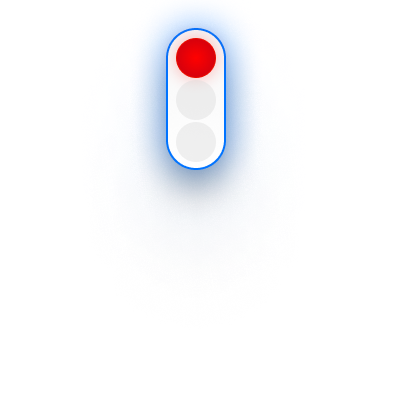
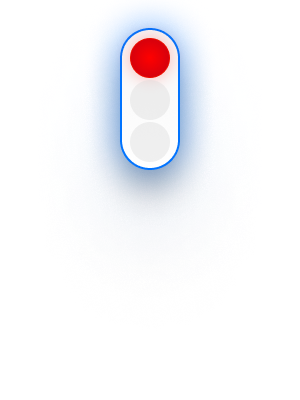
Fix traffic light clickable (#375)

Changed region(s): [[0.33, 0.06, 0.69, 0.45]]

diff --git a/lib/common/map/layers/sg_layers.dart b/lib/common/map/layers/sg_layers.dart
@@ -181,6 +181,112 @@ class TrafficLightsLayer {
   }
 }
 
+class TrafficLightsLayerClickable {
+  /// The ID of the Mapbox source.
+  static const sourceId = "traffic-lights-clickable";
+
+  /// The ID of the Mapbox layer.
+  static const layerId = "traffic-lights-icons-clickable";
+
+  /// The features to display.
+  final List<dynamic> features = List.empty(growable: true);
+
+  TrafficLightsLayerClickable(bool isDark, {hideBehindPosition = false}) {
+    final routing = getIt<Routing>();
+    final userPosSnap = getIt<Positioning>().snap;
+    if (routing.selectedRoute == null) return;
+    for (int i = 0; i < routing.selectedRoute!.signalGroups.length; i++) {
+      final sg = routing.selectedRoute!.signalGroups[i];
+      final sgDistanceOnRoute = routing.selectedRoute!.signalGroupsDistancesOnRoute[i];
+      // Clamp the value to not unnecessarily update the source.
+      final distanceToSgOnRoute = max(-5, min(0, sgDistanceOnRoute - (userPosSnap?.distanceOnRoute ?? 0)));
+
+      features.add(
+        {
+          "id": "traffic-light-clickable-$i", // Required for the click listener.
+          "type": "Feature",
+          "geometry": {
+            "type": "Point",
+            "coordinates": [sg.position.lon, sg.position.lat],
+          },
+          "properties": {
+            "id": sg.id,
+            "isDark": isDark,
+            "distanceToSgOnRoute": distanceToSgOnRoute,
+            "hideBehindPosition": hideBehindPosition,
+          },
+        },
+      );
+    }
+  }
+
+  /// Install the overlay on the map controller.
+  Future<void> install(mapbox.MapboxMap mapController, {iconSize = 1.0, at = 0}) async {
+    final sourceExists = await mapController.style.styleSourceExists(sourceId);
+    if (!sourceExists) {
+      await mapController.style.addSource(
+        mapbox.GeoJsonSource(id: sourceId, data: json.encode({"type": "FeatureCollection", "features": features})),
+      );
+    } else {
+      await update(mapController);
+    }
+
+    final trafficLightIconsLayerExists = await mapController.style.styleLayerExists(layerId);
+    if (!trafficLightIconsLayerExists) {
+      await mapController.style.addLayerAt(
+          mapbox.SymbolLayer(
+            sourceId: sourceId,
+            id: layerId,
+            iconSize: iconSize,
+            iconAllowOverlap: true,
+            textAllowOverlap: true,
+            textIgnorePlacement: true,
+            iconOpacity: 0,
+          ),
+          mapbox.LayerPosition(at: at));
+      await mapController.style.setStyleLayerProperty(layerId, 'icon-image', 'trafficlightclicklayer');
+      await mapController.style.setStyleLayerProperty(
+          layerId,
+          'icon-opacity',
+          json.encode(
+            showAfter(zoom: 16, opacity: [
+              "case",
+              ["get", "hideBehindPosition"],
+              [
+                "case",
+                [
+                  "<",
+                  ["get", "distanceToSgOnRoute"],
+                  -5, // See above - this is clamped to [-5, 0]
+                ],
+                0,
+                // Interpolate between -5 (opacity=0) and 0 (opacity=1) meters
+                [
+                  "interpolate",
+                  ["linear"],
+                  ["get", "distanceToSgOnRoute"],
+                  -5, // See above - this is clamped to [-5, 0]
+                  0,
+                  0,
+                  1
+                ],
+              ],
+              1
+            ]),
+          ));
+    }
+  }
+
+  /// Update the overlay on the map controller (without updating the layers).
+  update(mapbox.MapboxMap mapController) async {
+    final sourceExists = await mapController.style.styleSourceExists(sourceId);
+    if (sourceExists) {
+      final source = await mapController.style.getSource(sourceId);
+      (source as mapbox.GeoJsonSource).updateGeoJSON(json.encode({"type": "FeatureCollection", "features": features}));
+    }
+  }
+}
+
 class TrafficLightLayer {
   /// The ID of the Mapbox source.
   static const sourceId = "traffic-light";

diff --git a/lib/ride/views/map.dart b/lib/ride/views/map.dart
@@ -44,6 +44,9 @@ class RideMapViewState extends State<RideMapView> {
   /// The associated ride service, which is injected by the provider.
   late Ride ride;
 
+  /// The associated settings service, which is injected by the provider.
+  late Settings settings;
+
   /// The associated sg status service, which is injected by the provider.
   late PredictionSGStatus predictionSGStatus;
 
@@ -68,6 +71,7 @@ class RideMapViewState extends State<RideMapView> {
     userLocationLayerId,
     OfflineCrossingsLayer.layerId,
     TrafficLightsLayer.layerId,
+    TrafficLightsLayerClickable.layerId,
     TrafficLightsLayer.touchIndicatorsLayerId,
     TrafficLightLayer.layerId,
   ];
@@ -101,6 +105,7 @@ class RideMapViewState extends State<RideMapView> {
     positioning.addListener(onPositioningUpdate);
     predictionSGStatus = getIt<PredictionSGStatus>();
     predictionSGStatus.addListener(onStatusUpdate);
+    settings = getIt<Settings>();
   }
 
   @override
@@ -397,6 +402,13 @@ class RideMapViewState extends State<RideMapView> {
       iconSize: ppi / 5,
       at: index,
     );
+    index = await getIndex(TrafficLightsLayer.layerId);
+    if (!mounted) return;
+    await TrafficLightsLayerClickable(isDark).install(
+      mapController!,
+      iconSize: ppi / 5,
+      at: index,
+    );
     index = await getIndex(OfflineCrossingsLayer.layerId);
     if (!mounted) return;
     await OfflineCrossingsLayer(isDark, hideBehindPosition: false)
@@ -434,13 +446,35 @@ class RideMapViewState extends State<RideMapView> {
       ).toJson(),
     );
 
+    // Calculate the correct screen coordinates since the map got scaled.
+    if (settings.saveBatteryModeEnabled) {
+      if (!mounted) return;
+      final frame = MediaQuery.of(context);
+
+      // Get the scaled width and height.
+      double scaleWidth = frame.size.width / settings.scalingFactor;
+      double scaleHeight = frame.size.height / settings.scalingFactor;
+
+      // Normalize the screen coordinate to the scaled area.
+      double normalizedX = actualScreenCoordinate.x - (frame.size.width - scaleWidth) / 2;
+      double normalizedY = actualScreenCoordinate.y - (frame.size.height - scaleHeight) / 2;
+
+      // Get the width and height ratio factor in relation to the scaled screen size.
+      double ratioX = normalizedX / scaleWidth;
+      double ratioY = normalizedY / scaleHeight;
+
+      // Calculate the screen coordinates with the ratio in relation to the actual screen.
+      actualScreenCoordinate.x = frame.size.width * ratioX;
+      actualScreenCoordinate.y = frame.size.height * ratioY;
+    }
+
     final List<mapbox.QueriedFeature?> features = await mapController!.queryRenderedFeatures(
       mapbox.RenderedQueryGeometry(
         value: json.encode(actualScreenCoordinate.encode()),
         type: mapbox.Type.SCREEN_COORDINATE,
       ),
       mapbox.RenderedQueryOptions(
-        layerIds: [TrafficLightsLayer.layerId, TrafficLightsLayer.touchIndicatorsLayerId],
+        layerIds: [TrafficLightsLayerClickable.layerId],
       ),
     );
 
@@ -453,8 +487,8 @@ class RideMapViewState extends State<RideMapView> {
   onFeatureTapped(mapbox.QueriedFeature queriedFeature) async {
     // Map the id of the layer to the corresponding feature.
     final id = queriedFeature.feature['id'];
-    if ((id as String).startsWith("traffic-light-")) {
-      final sgIdx = int.tryParse(id.split("-")[2]);
+    if ((id as String).startsWith("traffic-light-clickable")) {
+      final sgIdx = int.tryParse(id.split("-")[3]);
       if (sgIdx == null) return;
       ride.userSelectSG(sgIdx);
       if (ride.userSelectedSG != null) {
@@ -528,7 +562,7 @@ class RideMapViewState extends State<RideMapView> {
       logoViewOrnamentPosition: mapbox.OrnamentPosition.TOP_LEFT,
       attributionButtonMargins: Point(20, marginYAttribution),
       attributionButtonOrnamentPosition: mapbox.OrnamentPosition.TOP_RIGHT,
-      saveBatteryModeEnabled: getIt<Settings>().saveBatteryModeEnabled,
+      saveBatteryModeEnabled: settings.saveBatteryModeEnabled,
     );
   }
 }

diff --git a/lib/common/map/view.dart b/lib/common/map/view.dart
@@ -108,9 +108,8 @@ class AppMapState extends State<AppMap> {
   @override
   Widget build(BuildContext context) {
     double devicePixelRatio = MediaQuery.of(context).devicePixelRatio;
-    const scalingFactor = 2.5;
     if (widget.saveBatteryModeEnabled) {
-      devicePixelRatio = devicePixelRatio / scalingFactor;
+      devicePixelRatio = devicePixelRatio / settings.scalingFactor;
     }
 
     final Widget map = mapbox.MapWidget(
@@ -156,7 +155,7 @@ class AppMapState extends State<AppMap> {
     // This results in the end in a lower resolution of the map and thus a lower GPU load and energy consumption.
     return widget.saveBatteryModeEnabled
         ? Transform.scale(
-            scale: scalingFactor,
+            scale: settings.scalingFactor,
             child: map,
           )
         : map;

diff --git a/lib/common/map/symbols.dart b/lib/common/map/symbols.dart
@@ -16,6 +16,7 @@ class SymbolLoader {
     await add("trafficlightdisconnectedlight", "assets/images/trafficlights/disconnected-light.png", 400, 400);
     await add("trafficlightonlinedarknocheck", "assets/images/trafficlights/online-dark-no-check.png", 400, 400);
     await add("trafficlightonlinelightnocheck", "assets/images/trafficlights/online-light-no-check.png", 400, 400);
+    await add("trafficlightclicklayer", "assets/images/trafficlights/traffic-light-click-layer.png", 60, 400);
     await add("trafficlightonlinedark", "assets/images/trafficlights/online-dark.png", 400, 400);
     await add("trafficlightonlinelight", "assets/images/trafficlights/online-light.png", 400, 400);
     await add("trafficlightonlinegreendark", "assets/images/trafficlights/online-green-dark.png", 400, 400);

diff --git a/lib/settings/services/settings.dart b/lib/settings/services/settings.dart
@@ -26,6 +26,8 @@ class Settings with ChangeNotifier {
 
   static final log = Logger("Settings");
 
+  final double scalingFactor = 2.5;
+
   /// Whether the performance overlay should be enabled.
   bool enablePerformanceOverlay;
 
